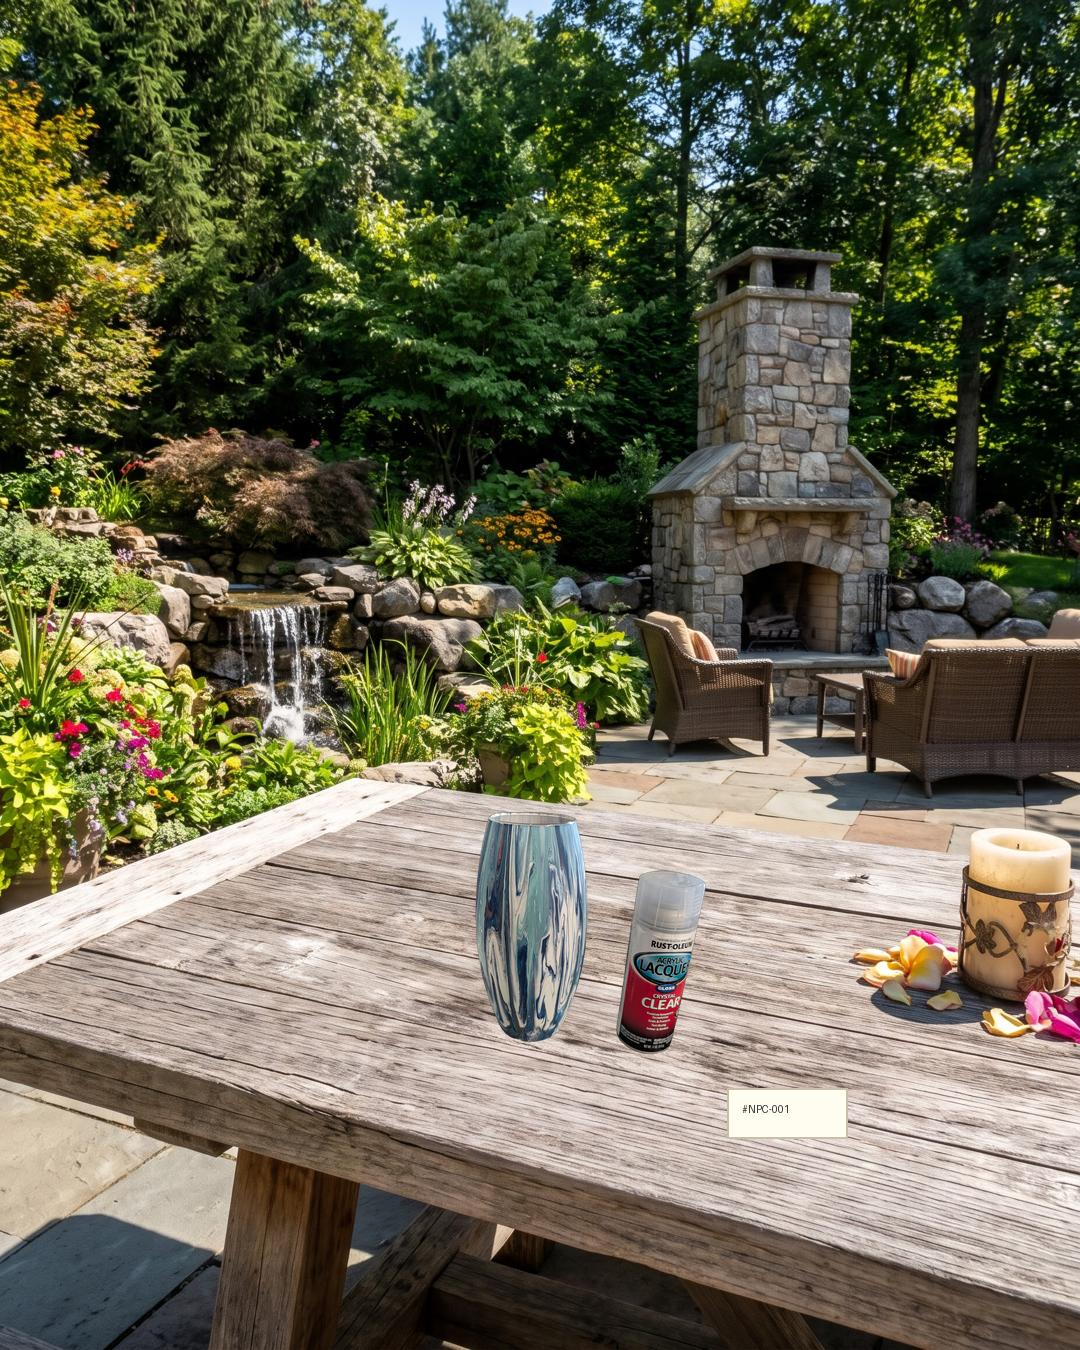
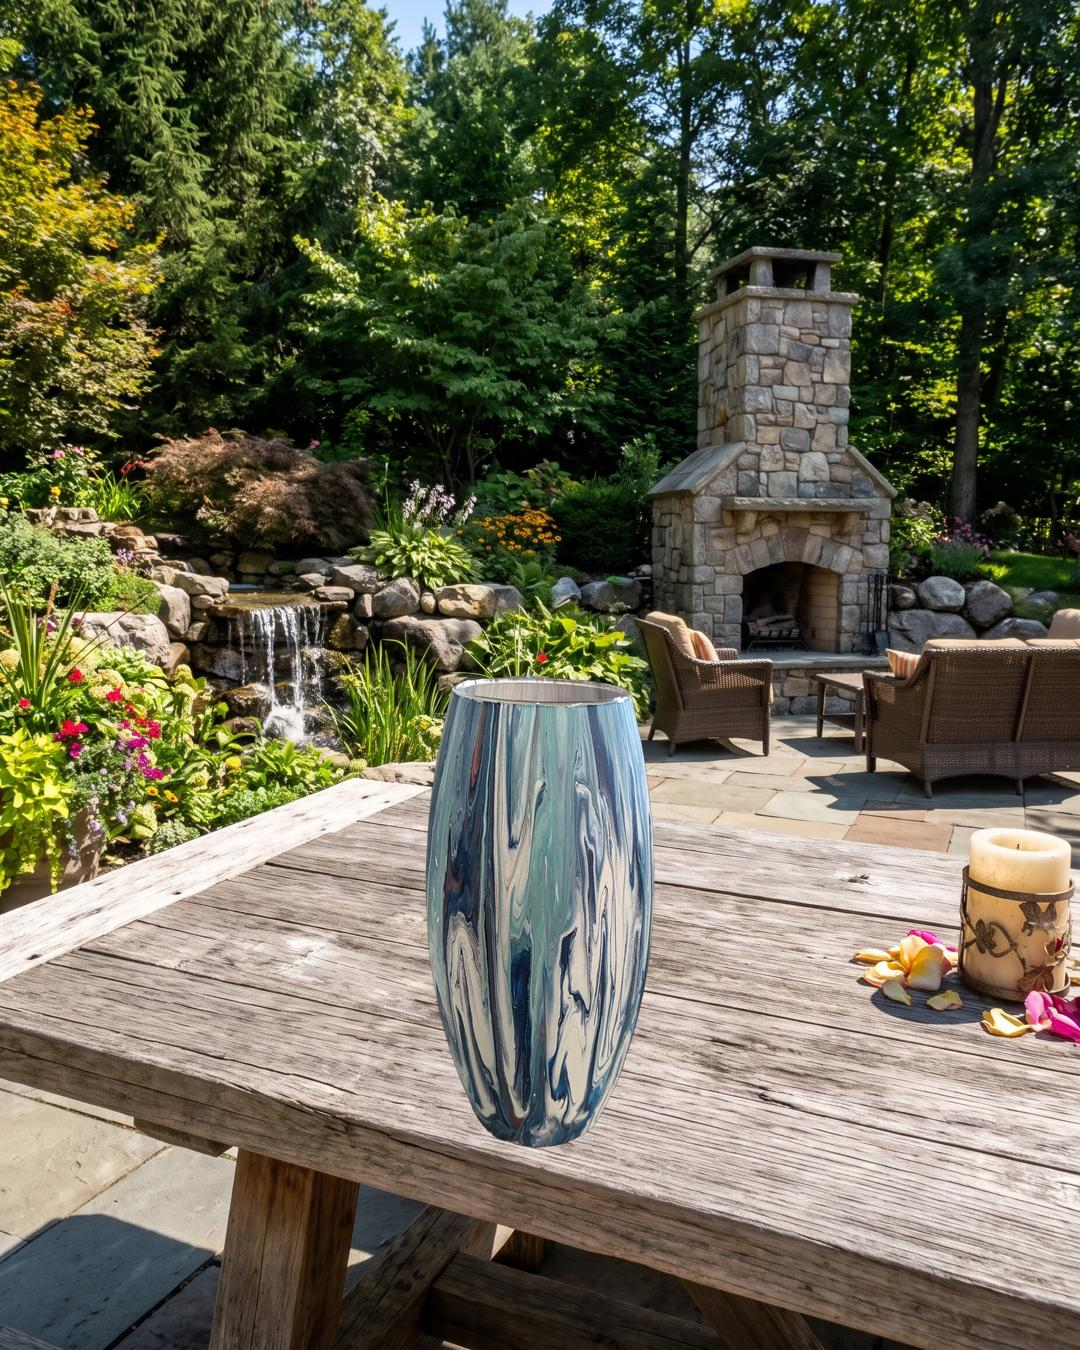
Auto-download new showcase vases from Google Drive

Changed region(s): [[0.3972, 0.4978, 0.6722, 0.8711], [0.6722, 0.8089, 0.7944, 0.8711]]

diff --git a/index.html b/index.html
@@ -34,6 +34,19 @@
     <div class="container">
         <div class="gallery-grid">
             
+            
+            <!-- Item #NPC-001 -->
+            <div class="product-card">
+                <div class="image-wrapper">
+                    <span class="sku-badge">#NPC-001</span>
+                    <img src="processed_PXL_20261004_203700322.jpg" alt="Nini's Paint Pour vase">
+                </div>
+                <div class="product-info">
+                    <h3>Cerulean Cascade Fluid Art Vase</h3>
+                    <p>Evoking the tranquil beauty of winding alpine rivers, this bespoke hand-poured vase is adorned with luminous ribbons of deep navy, soft sky blue, and crisp white enamel. Standing at an elegant height of approximately 10 inches, its graceful, tapered contour offers the perfect country-luxe statement piece to display a fresh bundle of fragrant garden flowers, from lush white hydrangeas to regal delphiniums.</p>
+                    <button class="modal-btn" onclick="alert('360-Degree Video View Coming Soon')">View 360° Experience</button>
+                </div>
+            </div>
             <!-- NEW_VASES_HERE -->
 
         </div>
